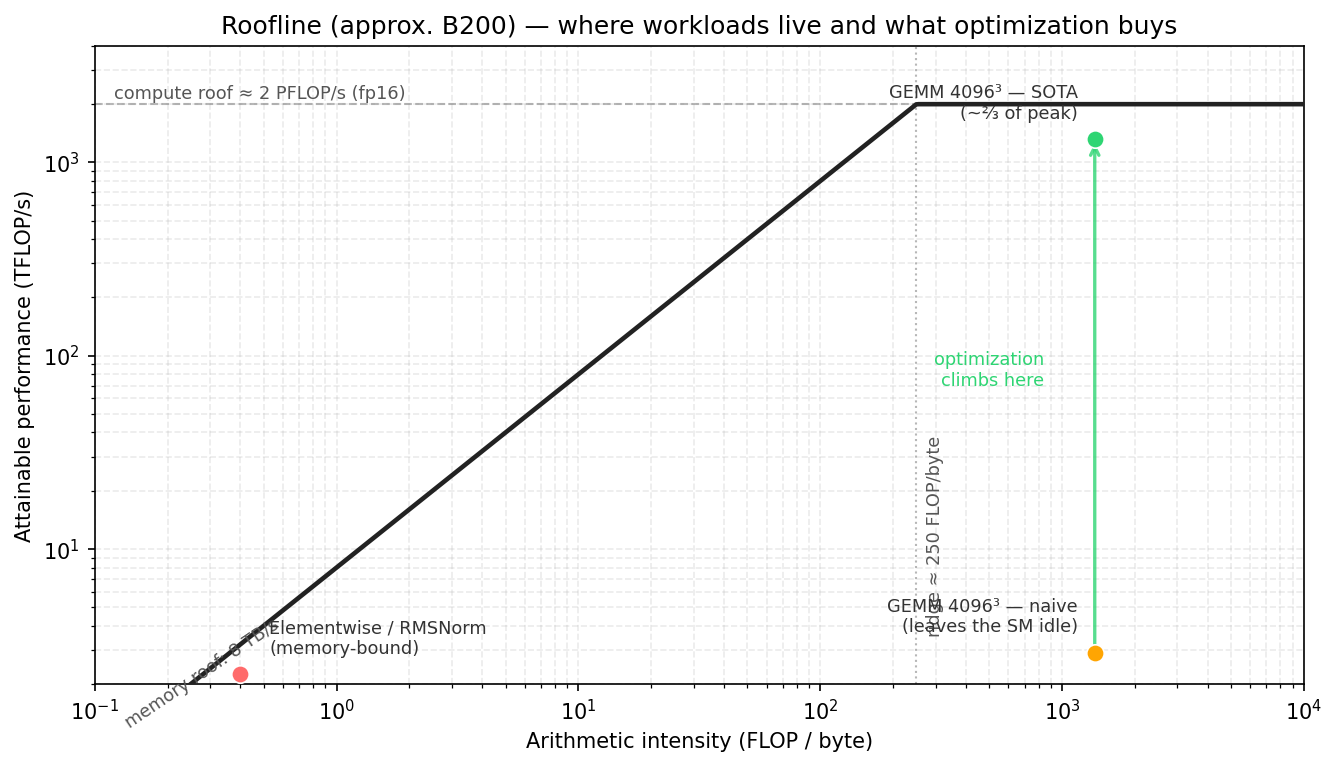
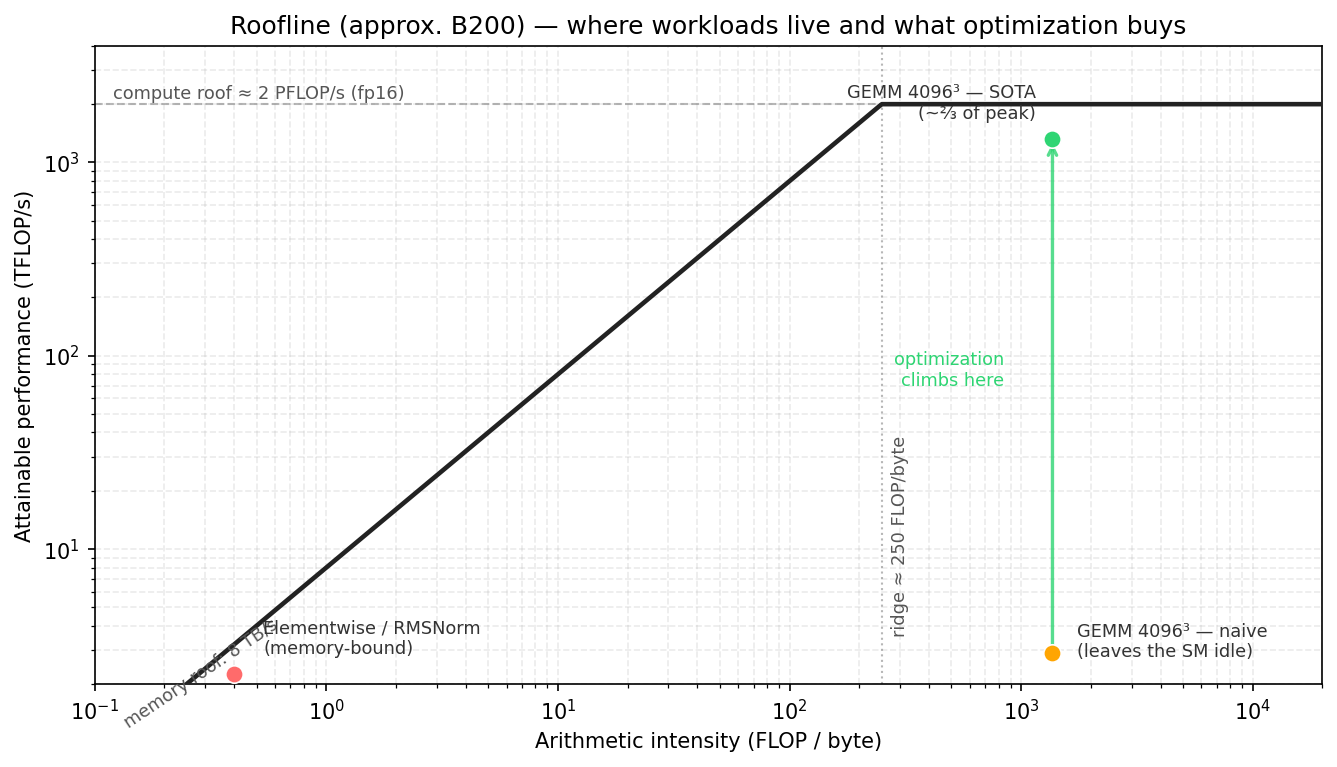
fig(roofline): move naive-GEMM label right to clear the ridge label (#64)
The 'GEMM 4096^3 — naive' annotation overlapped the vertical 'ridge ~250
FLOP/byte' label. Place it to the right of its point (SOTA stays left) and widen
the x-axis to 2e4 so it sits inside the plot. Regenerated roofline.png.

diff --git a/img/scripts/gen_roofline.py b/img/scripts/gen_roofline.py
@@ -15,7 +15,7 @@ PEAK_TFLOPS = 2000.0      # ~2 PFLOP/s dense fp16 tensor core (order of magnitud
 BW_TB_S = 8.0             # HBM3e, TB/s  (==> attainable = 8 * AI  TFLOP/s)
 RIDGE = PEAK_TFLOPS / BW_TB_S   # ~281 FLOP/byte
 
-ai = np.logspace(-1, 4, 500)              # arithmetic intensity, FLOP/byte
+ai = np.logspace(-1, 4.3, 500)            # arithmetic intensity, FLOP/byte
 roof = np.minimum(PEAK_TFLOPS, BW_TB_S * ai)
 
 fig, ax = plt.subplots(figsize=(8.8, 5.0), constrained_layout=True)
@@ -26,24 +26,25 @@ ax.text(RIDGE * 1.1, 3.5, f'ridge ≈ {RIDGE:.0f} FLOP/byte', color='#555', font
 ax.text(0.12, PEAK_TFLOPS * 1.07, f'compute roof ≈ {PEAK_TFLOPS/1000:.0f} PFLOP/s (fp16)', color='#555', fontsize=8.5)
 ax.text(0.13, 8 * 0.13 * 1.15, f'memory roof: {BW_TB_S:.0f} TB/s', color='#555', fontsize=8.5, rotation=34)
 
-# Example workloads: (label, arithmetic intensity, achieved TFLOP/s, color)
+# Example workloads: (label, arithmetic intensity, achieved TFLOP/s, color, offset, ha)
+# The naive-GEMM label goes to the *right* of its point so it clears the vertical
+# ridge label near x ~ 250; the SOTA label stays to the left.
 pts = [
-    ('Elementwise / RMSNorm\n(memory-bound)', 0.4, 8 * 0.4 * 0.7, '#ff6b6b'),
-    ('GEMM 4096³ — naive\n(leaves the SM idle)', 1365, 2.9, '#ffa502'),
-    ('GEMM 4096³ — SOTA\n(~⅔ of peak)', 1365, 1320, '#2ed573'),
+    ('Elementwise / RMSNorm\n(memory-bound)', 0.4, 8 * 0.4 * 0.7, '#ff6b6b', (14, 10), 'left'),
+    ('GEMM 4096³ — naive\n(leaves the SM idle)', 1365, 2.9, '#ffa502', (12, -2), 'left'),
+    ('GEMM 4096³ — SOTA\n(~⅔ of peak)', 1365, 1320, '#2ed573', (-8, 10), 'right'),
 ]
-for label, x, y, c in pts:
+for label, x, y, c, xytext, ha in pts:
     ax.scatter([x], [y], s=70, color=c, zorder=5, edgecolor='white', linewidth=0.8)
     ax.annotate(label, (x, y), textcoords='offset points',
-                xytext=(-8 if x > 100 else 14, 10), ha='right' if x > 100 else 'left',
-                fontsize=8.5, color='#333')
+                xytext=xytext, ha=ha, fontsize=8.5, color='#333')
 # the optimization gap arrow for GEMM
 ax.annotate('', xy=(1365, 1320), xytext=(1365, 2.9),
             arrowprops=dict(arrowstyle='->', color='#2ed573', lw=1.6, alpha=0.8))
 ax.text(1365 * 0.62, 70, 'optimization\nclimbs here', color='#2ed573', fontsize=8.5, ha='right')
 
 ax.set_xscale('log'); ax.set_yscale('log')
-ax.set_xlim(0.1, 1e4); ax.set_ylim(2, 4000)
+ax.set_xlim(0.1, 2e4); ax.set_ylim(2, 4000)
 ax.set_xlabel('Arithmetic intensity (FLOP / byte)')
 ax.set_ylabel('Attainable performance (TFLOP/s)')
 ax.set_title('Roofline (approx. B200) — where workloads live and what optimization buys')